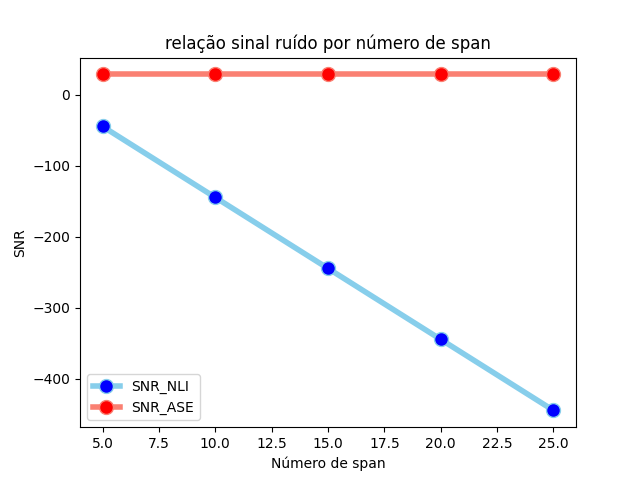
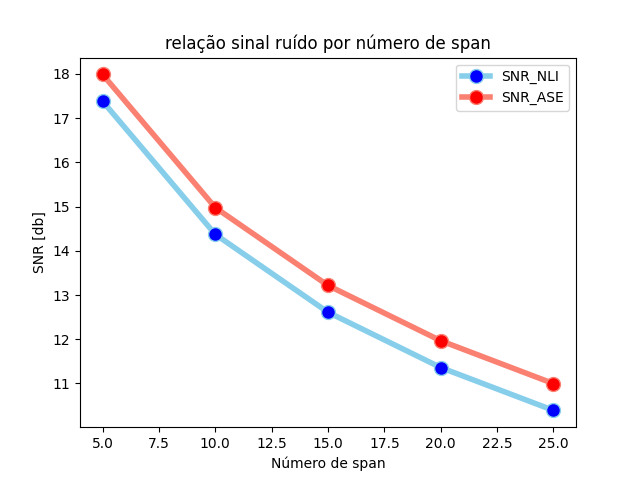
apresentaçao de raul

diff --git a/testgnli.py b/testgnli.py
@@ -43,13 +43,20 @@ def main():
 
     #calcula o Gnli
     gnil = g.calculateGnli()
+    
+    exp1(data)
+    # exp2(data)
+    
 
+
+def exp1(data):
     numSpan = 5
     result_snrNli = []
     result_snrAse = []
     result_osnrNli = []
     result_osnr = []
     result_numSpan = []
+
     while(numSpan < 26):
         data['numberSpan'] = numSpan
 
@@ -66,17 +73,47 @@ def main():
 
         result_numSpan.append(numSpan)
         numSpan += 5
-        
+    
     # print(gnil)
     # print(g.snr())
     showGraphicSnr(result_snrNli, result_snrAse, result_numSpan)
     showGraphicOsnr(result_osnrNli, result_osnr, result_numSpan)
 
+def exp2(data):
+    potTx = -5
+    result_PotTxsnrNli = []
+    result_PotTxsnr = []
+    result_PotTxosnr = []
+    result_PotTxNli = []
+    result_PotTx = []
+
+    while(potTx < 6):
+        data["potTxdBm"] = potTx
+
+        g = gnli.Gnli(data)
+        # gnil = g.calculateGnli()    #calcula a não linearidade
+
+        snrNli = g.snrNli() #Calcula a SNR_NLI
+        snrAse = g.snr()    #Calcula a SNR_ASE
+        result_PotTxsnrNli.append(snrNli)
+        result_PotTxsnr.append(snrAse)
+
+        result_PotTxNli.append(g.osnrNli(snrNli))
+        result_PotTxosnr.append(g.osnrEdfa(snrAse))
+
+        result_PotTx.append(potTx)
+        potTx += 1
+    
+    # print(gnil)
+    # print(g.snr())
+    showGraphicPotTx1(result_PotTxsnrNli, result_PotTxsnr, result_PotTx)
+    showGraphicPotTx(result_PotTxNli, result_PotTxosnr, result_PotTx)
+
 
 def showGraphicSnr(result_snrNli, result_snr, result_numSpan):
     
     fig, ax = plt.subplots()
-    ax.set(xlabel='Número de span', ylabel='SNR', title='relação sinal ruído por número de span')
+    ax.set(xlabel='Número de span', ylabel='SNR [db]', title='relação sinal ruído por número de span')
 
     plt.plot(result_numSpan, result_snrNli, marker='o', markerfacecolor='blue', markersize=10, color='skyblue', linewidth=4, label="SNR_NLI")
     plt.plot(result_numSpan, result_snr, marker='o', markerfacecolor='red', markersize=10, color='#FA8072', linewidth=4, label="SNR_ASE")
@@ -88,7 +125,7 @@ def showGraphicSnr(result_snrNli, result_snr, result_numSpan):
 def showGraphicOsnr(result_osnrNli, result_osnr, result_numSpan):
     
     fig, ax = plt.subplots()
-    ax.set(xlabel='Número de span', ylabel='OSNR', title='relação sinal ruído óptico por número de span')
+    ax.set(xlabel='Número de span', ylabel='OSNR [db]', title='relação sinal ruído óptico por número de span')
 
     plt.plot(result_numSpan, result_osnrNli, marker='o', markerfacecolor='blue', markersize=10, color='skyblue', linewidth=4, label="OSNR_NLI")
     plt.plot(result_numSpan, result_osnr, marker='o', markerfacecolor='red', markersize=10, color='#FA8072', linewidth=4, label="OSNR_EDFA")
@@ -96,7 +133,27 @@ def showGraphicOsnr(result_osnrNli, result_osnr, result_numSpan):
     # fig.save()
     plt.show()
 
+def showGraphicPotTx(result_PotTxNli, result_PotTxosnr, result_PotTx):
+    
+    fig, ax = plt.subplots()
+    ax.set(xlabel='Potência Tx [dBm]', ylabel='osnr [db]', title='relação da potência de transmissão por osnr')
 
+    plt.plot(result_PotTx, result_PotTxNli, marker='o', markerfacecolor='blue', markersize=10, color='skyblue', linewidth=4, label="OSNR_NLI")
+    plt.plot(result_PotTx, result_PotTxosnr, marker='o', markerfacecolor='red', markersize=10, color='#FA8072', linewidth=4, label="OSNR_EDFA")
+    plt.legend()
+    # fig.save()
+    plt.show()
+
+def showGraphicPotTx1(result_PotTxNli, result_PotTxosnr, result_PotTx):
+    
+    fig, ax = plt.subplots()
+    ax.set(xlabel='Potência Tx [dBm]', ylabel='snr [db]', title='relação da potência de transmissão por snr')
+
+    plt.plot(result_PotTx, result_PotTxNli, marker='o', markerfacecolor='blue', markersize=10, color='skyblue', linewidth=4, label="SNR_NLI")
+    plt.plot(result_PotTx, result_PotTxosnr, marker='o', markerfacecolor='red', markersize=10, color='#FA8072', linewidth=4, label="SNR_ASE")
+    plt.legend()
+    # fig.save()
+    plt.show()
 
 if __name__ == "__main__":
     main()

diff --git a/mathfunction/gnli.py b/mathfunction/gnli.py
@@ -131,11 +131,11 @@ class Gnli:
         return snr
 
     def osnrNli(self, snrNli):
-        return snrNli + self.SNR2OSNR
+        return 10 * np.log10(snrNli + self.SNR2OSNR)
 
 
     def osnrEdfa(self, srnAse):
-        return srnAse + self.SNR2OSNR
+        return 10 * np.log10(srnAse + self.SNR2OSNR)
 
 
     def printInput(self):
